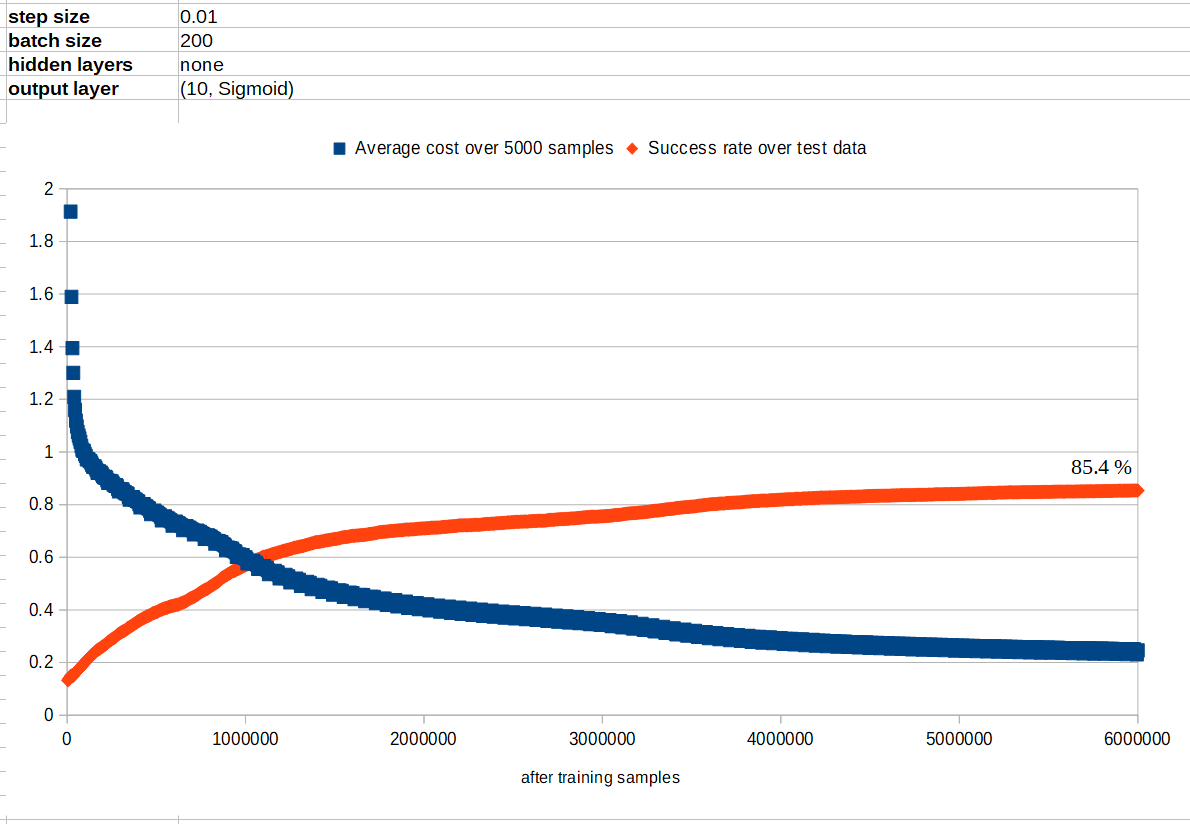
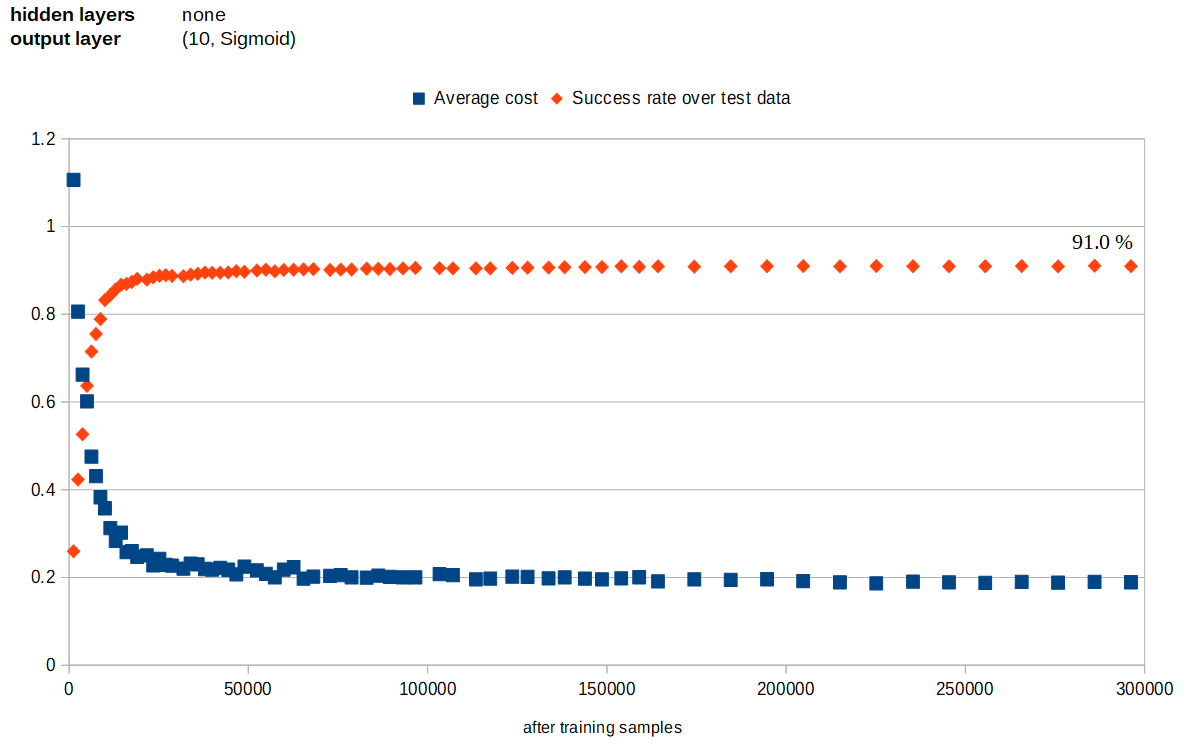
update results

diff --git a/src/main/kotlin/model/Tester.kt b/src/main/kotlin/model/Tester.kt
@@ -4,23 +4,23 @@ import input.Samples
 import output.outputNetworkActivationData
 
 class Tester (
-    val testData: Samples,
-    val outputDataOnSuccess: Boolean = false,
-    val outputDataOnError: Boolean = false
+    val testSamples: Samples,
+    val outputActivationDataOnSuccess: Boolean = false,
+    val outputActivationDataOnError: Boolean = false
 ){
     fun runTestsAndGetSuccessRate(network: NeuralNetwork): Double {
-        if(outputDataOnSuccess || outputDataOnError){
+        if(outputActivationDataOnSuccess || outputActivationDataOnError){
             println("Writing data to files in the output directory")
         }
 
         var correct = 0
         var incorrect = 0
-        testData.samples.forEachIndexed { index, sample ->
+        testSamples.samples.forEachIndexed { index, sample ->
             val label = network.eval(sample.data)
             if (label == sample.label) {
                 correct++
 
-                if(outputDataOnSuccess) {
+                if(outputActivationDataOnSuccess) {
                     outputNetworkActivationData(
                         network,
                         "output/test/success/$index"
@@ -29,7 +29,7 @@ class Tester (
             } else {
                 incorrect++
 
-                if(outputDataOnError) {
+                if(outputActivationDataOnError) {
                     outputNetworkActivationData(
                         network,
                         "output/test/error/$index"

diff --git a/src/main/kotlin/main.kt b/src/main/kotlin/main.kt
@@ -8,7 +8,6 @@ import kotlin.math.pow
 * Main entrypoint
 * */
 fun main() {
-    // clear output directory
     File("output/").takeIf { it.exists() && it.isDirectory }?.deleteRecursively()
 
     val trainingSamples = readSamplesFromIdxFiles(
@@ -33,7 +32,7 @@ fun main() {
     network.train(
         trainingSamples = trainingSamples.samples,
         tester = Tester(testSamples),
-        iterations = 10,
+        iterations = 30,
         iterationMaxLength = 10000,
         batchSizeByIteration = { iteration: Int -> 50 + 10 * iteration },
         stepSizeByIteration = { iteration: Int -> 1.0 * 0.97.pow(iteration) },
@@ -41,9 +40,9 @@ fun main() {
     )
 
     val finalSuccessRate = Tester(
-        testData = testSamples,
-        outputDataOnSuccess = false,
-        outputDataOnError = true
+        testSamples = testSamples,
+        outputActivationDataOnSuccess = false,
+        outputActivationDataOnError = false
     ).runTestsAndGetSuccessRate(network)
 
     println("Finished! Final success rate was ${100.0 * finalSuccessRate} %")

diff --git a/src/main/kotlin/networks/ExampleNetwork3.kt b/src/main/kotlin/networks/ExampleNetwork3.kt
@@ -11,10 +11,10 @@ class ExampleNetwork3 : NetworkBuilder {
             hiddenLayers = listOf(
                 HiddenLayer(
                     dimensions = Dimension1D(16),
-                    activationFunction = ActivationFunction.RELU
+                    activationFunction = ActivationFunction.SIGMOID
                 ),
                 HiddenLayer(
-                    dimensions = Dimension1D(16),
+                    dimensions = Dimension1D(10),
                     activationFunction = ActivationFunction.SIGMOID
                 )
             ),

diff --git a/src/main/kotlin/networks/ExampleNetwork2.kt b/src/main/kotlin/networks/ExampleNetwork2.kt
@@ -12,6 +12,10 @@ class ExampleNetwork2 : NetworkBuilder {
                 HiddenLayer(
                     dimensions = Dimension1D(16),
                     activationFunction = ActivationFunction.RELU
+                ),
+                HiddenLayer(
+                    dimensions = Dimension1D(16),
+                    activationFunction = ActivationFunction.RELU
                 )
             ),
             outputLayer = OutputLayer(

diff --git a/README.md b/README.md
@@ -14,9 +14,6 @@ with a 28x28 px resolution.
 - Kotlin
 - Download the four data files from http://yann.lecun.com/exdb/mnist/ and extract to project root.
 
-## Edit parameters
-You may change e.g. network topology and step size by editing parameters.kt
-
 ## Running
 Run main.kt
 
@@ -28,21 +25,20 @@ Network without any hidden layers works surprisingly well.
 ![Result 1](results/example-result-1.PNG)
 
 ### Attempt 2
-Network with one hidden layer of 32 nodes takes a much longer time to train and gives poor results
+Network with two hidden layers of 16 nodes with ReLU activation seems to give poor results. 
 
 ![Result 2](./results/example-result-2.PNG)
 
 ### Attempt 3
-After some trial and error with network topology, step size and batch size I was able to get close to 90% accuracy, but
-that proved to be a glass ceiling.
+Network with two hidden layers of 16 nodes with Sigmoid activation, and all layers connected to every other layer seems to give rather good results.
 
-![Result 2](./results/example-result-3.PNG)
+![Result 3](./results/example-result-3.PNG)
 
 ### Attempt 4
-Finally, I added some adhoc convolution layers for edge detection and reached the final result of 96,6 %.
+Network with convolution layers for edge detection gives clearly the best results.
 
-![Result 2](./results/example-result-4.PNG)
+![Result 4](./results/example-result-4.PNG)
 
 These ascii debug graphics demonstrate how it discovers edges in four directions.
 
-![Result 2](./results/convolution.PNG)
+![Activation of convolution layers](./results/convolution.PNG)
